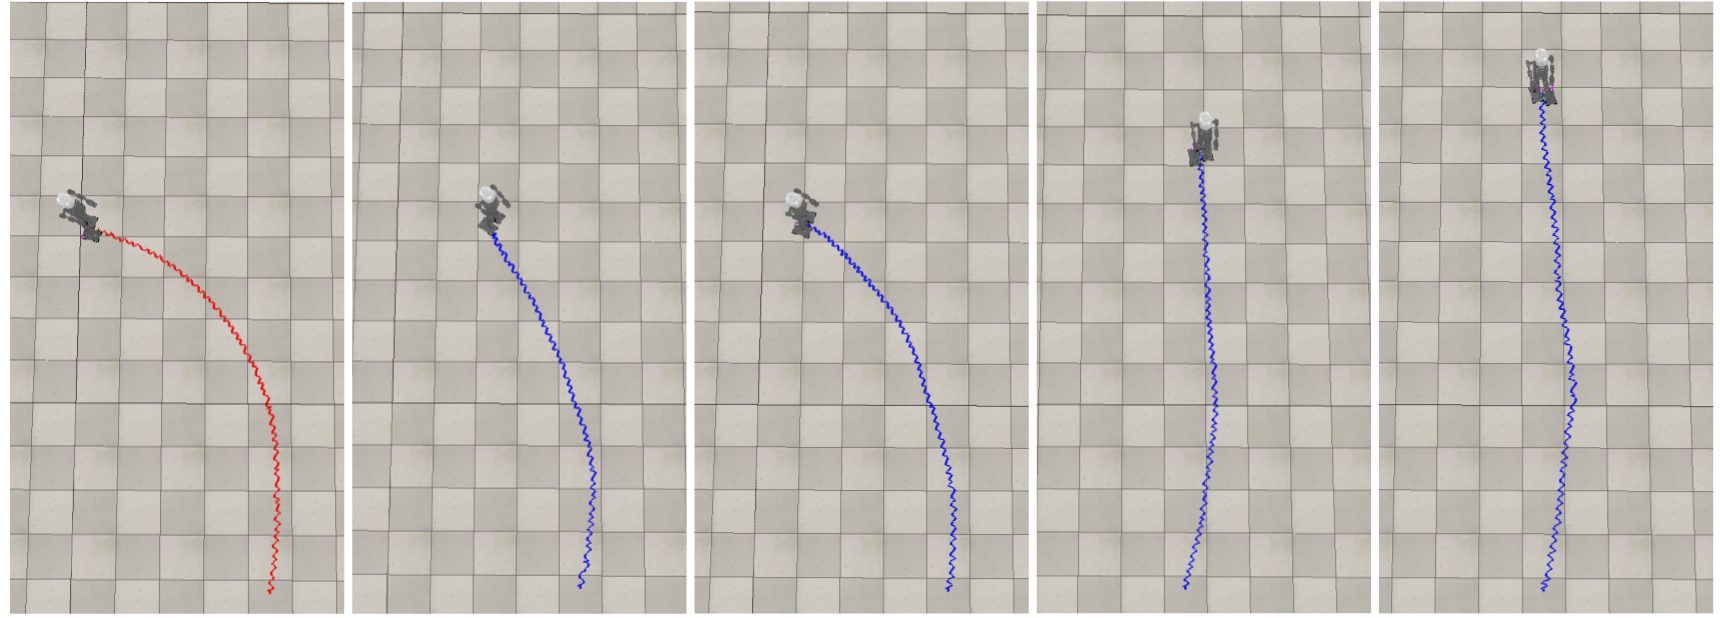
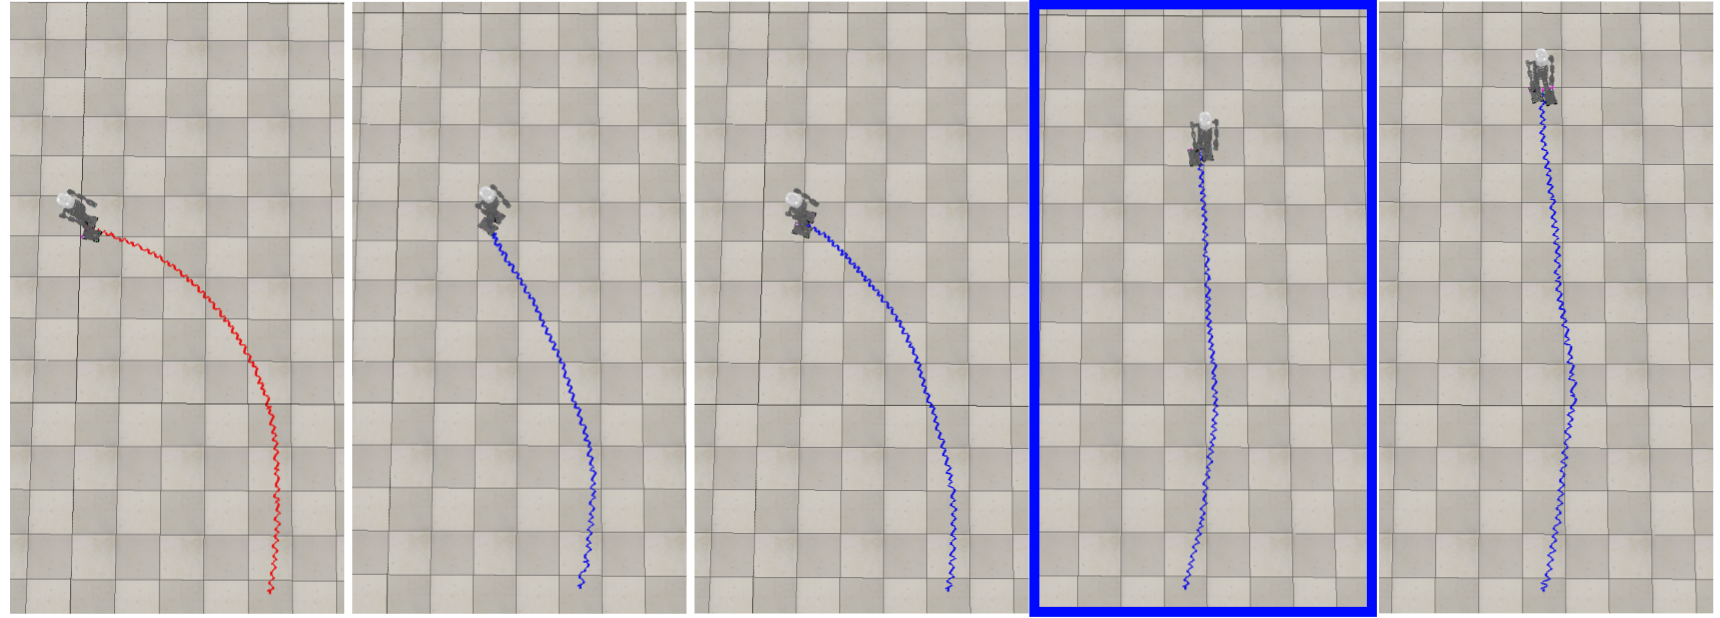
Migrated from uni hamburg git

Changed region(s): [[0.5855, 0.0, 0.8012, 1.0]]

diff --git a/README.md b/README.md
@@ -9,9 +9,13 @@ robot’s movements with respect to an overall objective. In this case, the obje
 is to minimize the lateral deviation while walking which may occur due to slippage or due to an imperfect robot model. The neural network is trained
 using the [deep deterministic policy gradient algorithm](https://arxiv.org/pdf/1509.02971.pdf) (a deep reinforcement learning algorithm). This work was carried out using the [NICO humanoid robot](https://www.inf.uni-hamburg.de/en/inst/ab/wtm/research/neurobotics/nico.html). 
 
+
 ![Walking patterns](nico_walk_8frames_wtmpc_af1_paper.png)
+*Snapshots of the NICO robot walking using the proposed controller*
+
 
 ![Correction of deviation](WalkingPatterns_paper.png)
+*The hierarchical controller can minimize the lateral deviation, even in the presence of systematic and non-systematic errors.*
 
 ## Note
 
